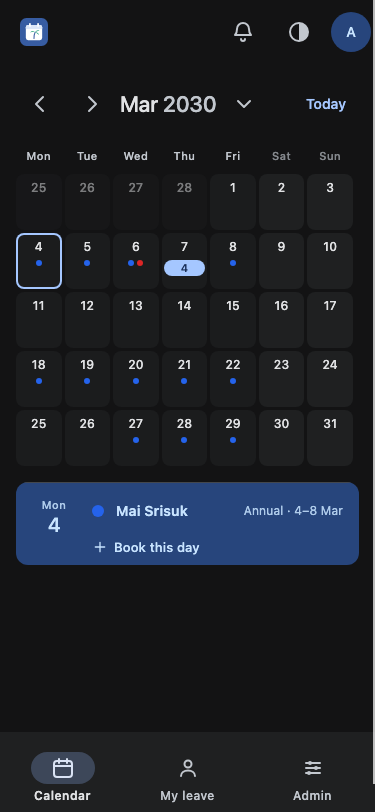
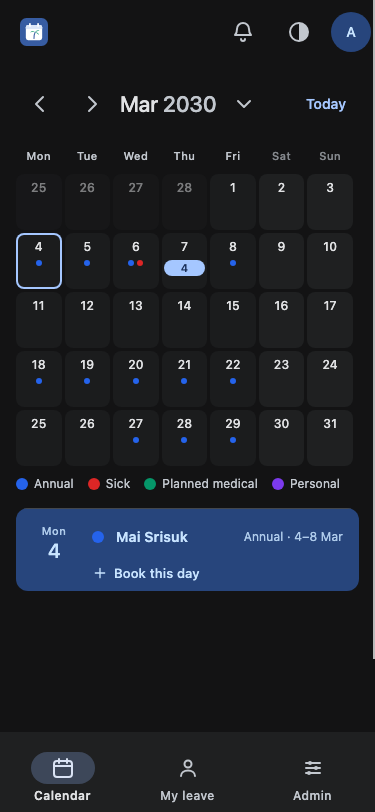
feat: booking form holds what would be refused; calendar fixes
- E1: the summary says a booking needs more than is left before
  submitting, in the error colour, and the button waits until it fits.
  A spent or overdrawn allowance is refused with "No annual leave left
  for 2026" rather than "-6.5 remaining".
- E2: "Also away" on a busy day is amber; red is for refusals.
- E3: the phone's Book button starts out of the way, instead of sitting
  on the day card until the observer first reports.
- E4: on a phone, Upcoming stays under the card on busy days, folded to
  four days with "Show all upcoming", and a one-line colour key sits
  under the grid.
- E5: Upcoming hides its Today group while the card shows today.
- E7: narrower weekend columns on a laptop (10% vs 16%), the bars' grid
  given the same proportions; weekend columns found from the week start,
  so the header's shading works in Thai too.

Linux month screenshots removed so CI records new ones; they are
committed from its artifact next.

Changed region(s): [[0.0293, 0.585, 0.968, 0.7389], [0.9973, 0.8005, 1.0, 0.9852]]

diff --git a/public/app.css b/public/app.css
@@ -40,6 +40,8 @@
 	--md-on-error: #ffffff;
 	--md-error-container: #ffcec5;
 	--md-on-error-container: #350b09;
+	--app-caution-container: #ffdea8;
+	--app-on-caution-container: #271900;
 	--md-surface: #f8f9fb;
 	--md-on-surface: #1b1c1d;
 	--md-surface-variant: #dfe3e9;
@@ -108,6 +110,8 @@
 		--md-on-error: #551915;
 		--md-error-container: #782723;
 		--md-on-error-container: #ffcec5;
+		--app-caution-container: #5b4300;
+		--app-on-caution-container: #ffdea8;
 		--md-surface: #131314;
 		--md-on-surface: #e1e2e4;
 		--md-surface-variant: #43474d;
@@ -148,6 +152,8 @@
 	--md-on-error: #551915;
 	--md-error-container: #782723;
 	--md-on-error-container: #ffcec5;
+	--app-caution-container: #5b4300;
+	--app-on-caution-container: #ffdea8;
 	--md-surface: #131314;
 	--md-on-surface: #e1e2e4;
 	--md-surface-variant: #43474d;
@@ -1204,11 +1210,10 @@ form.inline:has(.tf-support) { margin-bottom: 28px; }
 
 /* ---------- legend ---------- */
 
-/* Hidden on phones: the agenda names each leave type in words on the row
-   itself, so the colour key has nothing left to explain and was costing two
-   rows of a small screen. The month grid, which shows colour and no type name,
-   is desktop-only — and that is where the legend earns its place. */
-.legend { display: none; flex-wrap: wrap; gap: 8px; margin: var(--pad) 0; }
+/* Chips on a laptop, beside the bars. On a phone a single line of dots and
+   names under the grid, in the reader's language only: the grid's dots carry
+   colour and nothing else, and the key is what says which is which. */
+.legend { display: flex; flex-wrap: wrap; gap: 8px; margin: var(--pad) 0; }
 /* M3 assist chip. */
 .legend-item {
 	display: inline-flex;
@@ -1347,8 +1352,8 @@ form.inline:has(.tf-support) { margin-bottom: 28px; }
 .coverage.busy {
 	padding: 8px 12px;
 	border-radius: var(--md-shape-sm);
-	background: var(--md-error-container);
-	color: var(--md-on-error-container);
+	background: var(--app-caution-container);
+	color: var(--app-on-caution-container);
 	font-weight: 500;
 }
 
@@ -1575,13 +1580,17 @@ form.inline:has(.tf-support) { margin-bottom: 28px; }
 	.brand-name { display: inline; }
 	.account-name { display: inline; margin-right: 4px; color: var(--md-on-surface-variant); }
 	.fab { display: none; }
-	.legend { display: flex; }
 
 	/* Bars replace the per-day chips. A week shows three rows of them and each
 	   day counts the rest; CELL_CHIPS in calendar.tsx decides how many rows, and
 	   the server never renders more, so nothing here has to hide extras. */
 	.cell .chips { display: none; }
 	.lane-space { display: block; height: calc(var(--lanes, 0) * 26px); }
+	/* Weekdays 16% each, the weekend 10%. The bars' grid sits in the week's
+	   first cell and is sized from it: the whole row is 100/16 of a weekday
+	   column, or 100/10 of a weekend one when the week opens on Sunday. */
+	.grid col { width: 16%; }
+	.grid col.col-weekend { width: 10%; }
 	.week-bars {
 		display: grid;
 		position: absolute;
@@ -1589,14 +1598,18 @@ form.inline:has(.tf-support) { margin-bottom: 28px; }
 		left: 0;
 		top: 36px;
 		bottom: 0;
-		width: calc(700% + 6 * 6px);
-		grid-template-columns: repeat(7, minmax(0, 1fr));
+		width: calc(625% + 6 * 6px);
+		grid-template-columns: repeat(5, minmax(0, 16fr)) repeat(2, minmax(0, 10fr));
 		grid-auto-rows: 22px;
 		column-gap: 6px;
 		row-gap: 4px;
 		align-content: start;
 		pointer-events: none;
 		overflow: hidden;
+	}
+	.grid.weekend-first .week-bars {
+		width: calc(1000% + 6 * 6px);
+		grid-template-columns: minmax(0, 10fr) repeat(5, minmax(0, 16fr)) minmax(0, 10fr);
 	}
 	.week-bars > * { pointer-events: auto; margin: 0 6px; min-width: 0; }
 	.bar { display: flex; align-items: center; gap: 6px; padding: 2px 8px 2px 4px; }
@@ -2110,10 +2123,19 @@ a.my-link:focus-visible { outline: 2px solid var(--md-primary); outline-offset: 
 .agenda-view.day-mode .agenda-row.selected.has-people .agenda-type { color: inherit; opacity: 0.85; }
 .agenda-view.day-mode .agenda-row.selected.has-people .agenda-book { color: inherit; }
 
-/* On a phone the card is the answer, and Upcoming under it would repeat the
-   same names; it shows only while the chosen day has nobody away. */
+/* With today chosen, its card already names everyone away today: Upcoming
+   starts from tomorrow rather than saying it twice. */
+.cal-side:has(.agenda-view.day-mode .agenda-row.selected.today.has-people) .upcoming-day.today { display: none; }
+.upcoming-all { margin: 8px 0 0 -12px; }
 @media (max-width: 767px) {
-	.cal-side:has(.agenda-view.day-mode .agenda-row.selected.has-people) .cal-upcoming { display: none; }
+	.legend { gap: 4px 14px; margin: 10px 0 0; }
+	.legend-item { height: auto; padding: 0; border: 0; gap: 6px; font-size: 12px; line-height: 16px; font-weight: 400; color: var(--md-on-surface-variant); }
+	.legend-item .muted { display: none; }
+	/* Folded by calendar.ts to the first few days; the button opens the rest. */
+	.cal-upcoming.folded .upcoming-day:nth-child(n+5) { display: none; }
+}
+@media (min-width: 768px) {
+	.upcoming-all { display: none; }
 }
 @media (min-width: 1024px) and (min-height: 700px) {
 	body.fit-viewport .cal-side .agenda-view { margin-top: 0; }
@@ -2204,6 +2226,8 @@ a.my-link:focus-visible { outline: 2px solid var(--md-primary); outline-offset: 
 .booking-summary .preview { font-size: 14px; line-height: 20px; font-weight: 500; color: var(--md-on-surface); }
 .booking-summary .balance { font-size: 13px; line-height: 18px; color: var(--md-on-surface-variant); }
 .booking-summary .balance.bad, .booking-summary .preview.bad { color: var(--md-error); }
+/* The reason the button is held: as easy to find as the button. */
+.booking-summary .balance.bad { font-weight: 500; }
 .booking-summary .coverage { margin: 0; font-size: 13px; line-height: 18px; }
 .booking-summary .coverage.busy { margin-top: 6px; }
 .booking .actions { justify-content: flex-end; margin-top: 12px; }

diff --git a/src/i18n/strings.ts b/src/i18n/strings.ts
@@ -57,6 +57,7 @@ export const STRINGS = {
 	'cal.bookOn': { en: 'Book leave on {date}', th: 'แจ้งลาวันที่ {date}' },
 	'cal.upcoming': { en: 'Upcoming', th: 'ที่กำลังจะถึง' },
 	'cal.nothingUpcoming': { en: 'Nothing booked in the next {days} days.', th: 'ไม่มีการลาใน {days} วันข้างหน้า' },
+	'cal.upcomingAll': { en: 'Show all upcoming', th: 'แสดงทั้งหมด' },
 	'cal.upcomingWindow': { en: 'Next {days} days, from today', th: '{days} วันข้างหน้า นับจากวันนี้' },
 	'cal.more': { en: '+{n} more', th: 'อีก {n}' },
 	'cal.until': { en: 'until {date}', th: 'ถึง {date}' },
@@ -93,7 +94,7 @@ export const STRINGS = {
 	'book.from': { en: 'From', th: 'ตั้งแต่' },
 	'book.to': { en: 'To', th: 'ถึง' },
 	'book.balanceShort': { en: '{type}: only {remaining} left — not enough for this', th: '{type}: เหลือเพียง {remaining} วัน ไม่พอสำหรับการลานี้' },
-	'book.balanceNone': { en: '{type}: none left', th: '{type}: ไม่เหลือสิทธิ์แล้ว' },
+	'book.balanceNone': { en: '{type}: none left — not enough for this', th: '{type}: ไม่เหลือสิทธิ์แล้ว ไม่พอสำหรับการลานี้' },
 	'book.balance': { en: '{type}: {remaining} left → {after} after this', th: '{type}: เหลือ {remaining} วัน → หลังลานี้ {after} วัน' },
 	'book.bookDays': { en: 'Book {days} day|Book {days} days', th: 'ลา {days} วัน' },
 	'book.cancel': { en: 'Cancel', th: 'ยกเลิก' },
@@ -508,6 +509,7 @@ export const STRINGS = {
 	'error.tooFarBack': { en: 'That start date is more than {days} days in the past. Ask an admin to add it.', th: 'วันที่เริ่มต้นย้อนหลังเกิน {days} วัน กรุณาแจ้งผู้ดูแลระบบ' },
 	'error.tooFarAhead': { en: 'That end date is too far in the future — check the year.', th: 'วันที่สิ้นสุดอยู่ไกลเกินไป กรุณาตรวจสอบปี' },
 	'error.overlap': { en: 'You already have leave booked over {start} – {end}.', th: 'คุณมีการลาอยู่แล้วในช่วง {start} – {end}' },
+	'error.noneLeft': { en: 'No {type} leave left for {year}.', th: 'ไม่เหลือโควตา{typeTh}สำหรับปี {year} แล้ว' },
 	'error.notEnough': { en: 'Not enough {type} leave left: {days} day requested, {left} remaining.|Not enough {type} leave left: {days} days requested, {left} remaining.', th: 'โควตา{typeTh}ไม่พอ: ขอ {days} วัน เหลือ {left} วัน' },
 } satisfies Record<string, Entry>;
 

diff --git a/src/views/calendar.tsx b/src/views/calendar.tsx
@@ -137,7 +137,7 @@ function UpcomingList({
 			: describeRange(e.start_date, e.end_date, e.start_half, e.end_half, lang);
 
 	return (
-		<section class="cal-upcoming">
+		<section class="cal-upcoming" data-upcoming>
 			<h2>{t('cal.upcoming')}</h2>
 			{days.length === 0 ? (
 				// The empty message already names the window, so the caption below
@@ -179,6 +179,10 @@ function UpcomingList({
 							</li>
 						))}
 					</ol>
+					{/* Phone only, and only once the script has folded the list. */}
+					<button type="button" class="btn text upcoming-all" data-upcoming-all hidden>
+						{t('cal.upcomingAll')}
+					</button>
 				</>
 			)}
 		</section>
@@ -450,6 +454,7 @@ function CalendarBody(props: CalendarProps) {
 	const weekStart = parseWeekStart(user.week_start) ?? MONDAY;
 	const grid = monthGrid(year, month, weekStart);
 	const weekdays = weekdayLabels(weekStart, lang);
+	const weekendCol = weekdays.map((_, i) => (weekStart + i) % 7 === 0 || (weekStart + i) % 7 === 6);
 	const weeks = intoWeeks(grid);
 	const holidayMap = new Map(holidays.map((h) => [h.date, h.label]));
 	// Who is away on each day — weekends and holidays inside a booking left
@@ -591,12 +596,21 @@ function CalendarBody(props: CalendarProps) {
 			<div class="cal-layout">
 				<div class="cal-main">
 				<section class="grid-view">
-					<table class="grid">
+					{/* On a laptop the weekend gets narrower columns: it rarely holds
+					    anyone, and the width is worth more to the weekdays' names. The
+					    bars are laid out on a grid of their own over the cells, so it
+					    is told the same proportions (see .week-bars). */}
+					<table class={`grid ${weekendCol[0] ? 'weekend-first' : ''}`}>
 						<caption class="visually-hidden">{t('cal.title', { month: monthName(month, lang), year })}</caption>
+						<colgroup>
+							{weekendCol.map((weekend) => (
+								<col class={weekend ? 'col-weekend' : ''} />
+							))}
+						</colgroup>
 						<thead>
 							<tr>
-								{weekdays.map((w) => (
-									<th scope="col" class={`weekhead-cell ${w === 'Sat' || w === 'Sun' ? 'weekend' : ''}`}>
+								{weekdays.map((w, i) => (
+									<th scope="col" class={`weekhead-cell ${weekendCol[i] ? 'weekend' : ''}`}>
 										{w}
 									</th>
 								))}

diff --git a/src/client/booking.ts b/src/client/booking.ts
@@ -56,7 +56,7 @@ function enhance(form: HTMLFormElement) {
 		bookDays: 'Book {days} day|Book {days} days',
 		balance: '{type}: {remaining} left → {after} after this',
 		balanceShort: '{type}: only {remaining} left — not enough for this',
-		balanceNone: '{type}: none left',
+		balanceNone: '{type}: none left — not enough for this',
 		coverage: 'Also away on {date}: {names} — with you, {out} of {headcount}',
 		coverageFor: 'Also away on {date}: {names} — with {who}, {out} of {headcount}',
 		coverageMore: '{names} and {more} more',
@@ -107,7 +107,20 @@ function enhance(form: HTMLFormElement) {
 		if (balance) balance.textContent = '';
 		paintCoverage(null);
 		if (submit) submit.textContent = submitLabel;
+		hold(false);
 		summary?.classList.remove('filled');
+	}
+
+	/**
+	 * Hold the button while the summary says the server would refuse. Only on
+	 * the preview's word: when it cannot be reached the form still submits and
+	 * the server decides, as it always does.
+	 */
+	function hold(refused: boolean) {
+		if (!submit) return;
+		submit.disabled = refused;
+		if (refused) submit.setAttribute('aria-describedby', summary?.id ?? '');
+		else submit.removeAttribute('aria-describedby');
 	}
 
 	async function request() {
@@ -157,6 +170,7 @@ function enhance(form: HTMLFormElement) {
 			}
 			paintBalance(body.balance ?? null);
 			paintCoverage(body.coverage ?? null);
+			hold(typeof body.days !== 'number' || (body.balance != null && body.balance.after < 0));
 		} catch {
 			// Offline or the request failed. The summary is a nicety; the form
 			// still submits and the server still decides.
@@ -174,7 +188,8 @@ function enhance(form: HTMLFormElement) {
 		}
 		const short = data.after < 0;
 		// Already at or past zero, "only -6.5 left" is nonsense: say none is left.
-		const template = data.remaining <= 0 ? S.balanceNone : short ? S.balanceShort : S.balance;
+		// Not when an edit gives days back and so still fits: that reads as usual.
+		const template = !short ? S.balance : data.remaining <= 0 ? S.balanceNone : S.balanceShort;
 		balance.textContent = fill(template, { type: data.type, remaining: data.remaining, after: data.after });
 		balance.classList.toggle('bad', short);
 	}

diff --git a/src/client/calendar.ts b/src/client/calendar.ts
@@ -277,7 +277,27 @@ if (agenda) {
 // corner — would otherwise sit on top of a name in it.
 const fab = document.querySelector<HTMLElement>('[data-fab]');
 if (fab && agenda && 'IntersectionObserver' in window) {
+	// Out of the way until the observer first reports, which can be a few
+	// frames after the first paint: shown until then, it sat over the card's
+	// corner and then slid away.
+	fab.classList.add('fab-away');
 	new IntersectionObserver(([entry]) => fab.classList.toggle('fab-away', entry.isIntersecting)).observe(agenda);
+}
+
+// On a phone, Upcoming sits under the day card and can run to dozens of rows:
+// it shows the first few days, and a button opens the rest. Folded here rather
+// than in the markup, so without the script every row is there.
+/** Days of Upcoming a phone shows before "Show all". */
+const UPCOMING_FOLDED = 4;
+const upcoming = document.querySelector<HTMLElement>('[data-upcoming]');
+const upcomingAll = upcoming?.querySelector<HTMLButtonElement>('[data-upcoming-all]');
+if (upcoming && upcomingAll && upcoming.querySelectorAll('.upcoming-day').length > UPCOMING_FOLDED) {
+	upcoming.classList.add('folded');
+	upcomingAll.hidden = false;
+	upcomingAll.addEventListener('click', () => {
+		upcoming.classList.remove('folded');
+		upcomingAll.hidden = true;
+	});
 }
 
 // Swipe the month grid to change month. The arrows stay; this follows their

diff --git a/src/domain/leave.ts b/src/domain/leave.ts
@@ -221,6 +221,11 @@ export function validateBooking(input: BookingInput, ctx: BookingContext): Valid
 
 	if (type.counts_quota) {
 		const left = ctx.remaining.get(type.id) ?? 0;
+		if (count.days > left && left <= 0) {
+			// Nothing left, or already overdrawn by an admin's correction: "-6.5
+			// remaining" is arithmetic, not an answer.
+			return { ok: false, error: msg('error.noneLeft', { type: type.label_en.toLowerCase(), typeTh: type.label_th, year: input.startDate.slice(0, 4) }) };
+		}
 		if (count.days > left) {
 			return {
 				ok: false,
@@ -448,6 +453,7 @@ const ERROR_FIELD: Partial<Record<StringKey, string>> = {
 	// The quota belongs to the leave type, and switching type is the usual way
 	// out of this one — more usual than shortening the booking.
 	'error.notEnough': 'leaveTypeId',
+	'error.noneLeft': 'leaveTypeId',
 	'error.badStart': 'startDate',
 	'error.tooFarBack': 'startDate',
 	'error.notAWorkingDay': 'startDate',

diff --git a/src/views/booking.tsx b/src/views/booking.tsx
@@ -237,7 +237,7 @@ export function BookingForm({ types, today, compact, entry, defaultDate, errorFi
 			{/* Filled in by booking.js before the button is pressed: what this
 			    costs, what it leaves, and who else is away. Empty, and hidden,
 			    without it. */}
-			<div class="booking-summary" data-summary aria-live="polite">
+			<div class="booking-summary" id="booking-summary" data-summary aria-live="polite">
 				<p class="preview" data-preview></p>
 				<p class="balance" data-balance></p>
 				<p class="coverage" data-coverage></p>

diff --git a/docs/ARCHITECTURE.md b/docs/ARCHITECTURE.md
@@ -172,7 +172,7 @@ Self-serve model (owner's decision): a POST creates a `confirmed` row directly. 
 | GET | `/api/v1/holidays?from=&to=` | Public holidays in a range. About nobody, so any signed-in caller or named service token. |
 | GET | `/api/v1/balances?year=&user=` | Entitlement, taken and remaining per person per type. Admins and service tokens only. |
 | GET | `/api/v1/leave?from=&to=&user=` | JSON feed, active users only. No email addresses in the response; notes filtered per viewer. `user` takes an address as *input* to narrow the feed to one person — the rows `/u/:email` renders as a page. |
-| GET | `/api/v1/leave/preview` | Server-side day count, coverage and balance for the form's summary: `balance` is what the booking leaves of its type's allowance in the year it starts — the owner's when an admin edits someone else's, with the booking's own days credited back when it is that type in that year, the rule the save applies. `for` (admins, new bookings) makes it the balance and coverage of the person being booked for. |
+| GET | `/api/v1/leave/preview` | Server-side day count, coverage and balance for the form's summary — and so what holds the form's button: a refused count, or a balance that would go below zero, disables it with the reason beside it (`aria-describedby`), until the form is one the save would take. The coverage line is amber on a busy day, never red: red is kept for refusals. The balance: `balance` is what the booking leaves of its type's allowance in the year it starts — the owner's when an admin edits someone else's, with the booking's own days credited back when it is that type in that year, the rule the save applies. `for` (admins, new bookings) makes it the balance and coverage of the person being booked for. |
 | POST | `/api/v1/leave` | Book. Server computes days, checks overlap and the start year's balance. A refusal carries the submission and the offending field back to the form. An admin may send `for` — a person key from the form's "Booking for" field — to book for someone active, checked against that person's allowance and bookings; anyone else sending another key is refused. |
 | GET | `/leave/:id/edit` | A booking's page, for its owner or an admin; the no-JS destination for an entry. The booking first — dates, owner, type, a status ("in 12 days", "on leave now", "taken"), days, note, the owner's balance in its start year, who else is away during it (`coverageInRange`, from the owner), and its history from `leave_audit` — then Edit, a `<details>` holding the booking form (open by itself after a refused save), and Remove…, a `<details>` that asks once. Back goes to the page the reader came from (`referrerPath`), unless that was this page or a form it posted to. |
 | POST | `/api/v1/leave/:id/edit` | Save an edit, and offer undo. Also the drag-to-move target, which carries `returnTo` and so gets no form prefill. |
@@ -325,14 +325,14 @@ Errors are pages inside the app for anyone signed in — the bars, the reader's 
 
 One `public/app.css`, mobile-first, single breakpoint at 768px. The month grid renders at every width: coloured chips with names above it, dots below it with the whole cell as one tap target (a 7×5 grid of names is unreadable on a phone). Beside the month on a laptop, and under it on a phone, is the day panel: one day's card — today to begin with, or the month's first busy day when browsing another month — and choosing a day swaps the card in place (`client/calendar.ts`, `.day-mode`), so the grid never scrolls away and reading the 20th no longer means scrolling past the 1st to the 19th. A day with people away is the lit card (primary container); a quiet one steps back. The card carries its own "Book this day". Each row says how long that absence runs ("Annual · 18–21 Oct"). The server renders a row for every day of the month and marks the one to open on; with scripting off the list is the month's busy days as before, empty rows hidden, and an empty cell's link books that day. A sideways swipe on the grid follows the prev/next month links, and one on the day card steps a day, carrying into the next or previous month off either end (touch screens only, one `onSwipe` helper for both; it has to be mostly horizontal, 60px or more, and under 600ms, so a tap or a drifting scroll is never taken for one). The per-day views — the phone's dots, the day card, the day list and `/api/v1/leave/by-date` — list someone only on the days they are actually off: `byDate` leaves weekends and holidays inside a booking out, so a Friday-to-Monday booking shows on Friday and Monday; the desktop bars break the same way (`weekLanes`). A phone cell with more than three people away (`PHONE_DOTS`) shows the number in a small pill instead of a wrapping cluster of dots. Above the grid on a phone, the notification invitation and an admin's holiday reminder are compact strips clamped to two lines with their buttons alongside, so with both up the day card still starts on an 812px screen — `test-browser.mjs` measures it. The phone's floating Book button is round from the start and steps aside while the day card is on screen (an `IntersectionObserver` on the card): as an extended FAB it sat on the card's rows until the page was scrolled. It keeps its accessible name. When a tap or swipe changes the day, a visually hidden polite live region (`[data-day-status]`) says the day and who is away, once; each row carries its full date in `data-label` for it. Making the whole list live instead would read every row. The booking form is a `<form>` that works without JS; JS only adds the live day-count preview and the half-day field toggling.
 
-The Upcoming list — 90 days from today, grouped by day under sticky headings, with a caption saying it is anchored to today rather than the month on screen — sits in the day panel under the card: in the sidebar once the window is at least 1024×700, stacked under the grid otherwise. On a phone it shows only while the chosen day has nobody away (`:has()` on the panel), since otherwise it repeats the card's names a second time. It replaced the phone's who-summary card ("Out today" / "Next 7 days") on 2026-10-19, which said the same thing in a worse shape. The prev/next month buttons sit ahead of the month name, so their position does not depend on how long the name is. Below 768px the heading shows the short month ("Sep 2026", "ก.ย. 2026"): the long form is sent as well and CSS picks one, since "September 2026" beside three icon buttons and Today does not fit a 375px screen. It fits down to 360px.
+The Upcoming list — 90 days from today, grouped by day under sticky headings, with a caption saying it is anchored to today rather than the month on screen — sits in the day panel under the card: in the sidebar once the window is at least 1024×700, stacked under the grid otherwise. It never repeats the card: while the card shows today, Upcoming's Today group is hidden (`:has()` on the panel), at every width. On a phone it folds to its first four days with a **Show all upcoming** button (`calendar.ts`; without the script every row shows), and a one-line key of dots and type names sits under the grid, since the grid's dots carry colour and nothing else. Until 2026-10-22 the phone hid Upcoming whenever the chosen day had anyone away, which left a phone with no "who is out next" at all on a busy day, and had no key. It replaced the phone's who-summary card ("Out today" / "Next 7 days") on 2026-10-19, which said the same thing in a worse shape. The prev/next month buttons sit ahead of the month name, so their position does not depend on how long the name is. Below 768px the heading shows the short month ("Sep 2026", "ก.ย. 2026"): the long form is sent as well and CSS picks one, since "September 2026" beside three icon buttons and Today does not fit a 375px screen. It fits down to 360px.
 
 Navigation changes shape at the same breakpoint, following M3's own guidance rather than shrinking one control:
 
 - **Phone** — an M3 navigation bar fixed to the bottom, with the active destination marked by a filled pill behind its icon, and an **extended FAB** for "Book leave" in the bottom-right, where a thumb reaches. `body` reserves room for both so the last row of a list can still scroll clear.
 - **Desktop** — the same destinations as primary tabs in the top app bar, marked by an indicator under the label, and Book leave in the month's header beside Today. The FAB is hidden; every day also has its own +.
 
-On a laptop the month fits the window: the admin's holiday reminder is a chip in the header rather than a strip above it, the "Click any day…" hint row is gone, and the legend sits under the grid — together about 120px, which is what pushed the last week of a 1,366×800 screen into an inner scroll. Rows still size to their bars rather than being equal: equal rows sized to the busiest week overflow the window, and fitting won. Holiday names get two lines in the cell instead of one cut short.
+On a laptop the month fits the window: the admin's holiday reminder is a chip in the header rather than a strip above it, the "Click any day…" hint row is gone, and the legend sits under the grid — together about 120px, which is what pushed the last week of a 1,366×800 screen into an inner scroll. Rows still size to their bars rather than being equal: equal rows sized to the busiest week overflow the window, and fitting won. Holiday names get two lines in the cell instead of one cut short. From 768px the weekend columns are narrower — 10% each against 16% for a weekday, set on `<col>` elements — because they rarely hold anyone and the width is worth more to weekday names; the bars' own grid (`.week-bars`), positioned in each week's first cell, is given the same proportions and sized from that cell (`.weekend-first` when the week opens on Sunday). Which columns are the weekend is worked out from the week start, not from the column label, which had never matched in Thai.
 
 Both are rendered on every page and chosen by CSS, so there is no JS in the navigation.
 

diff --git a/docs/PROGRESS.md b/docs/PROGRESS.md
@@ -1,6 +1,6 @@
 # wan-nee-la — Progress
 
-Updated: 2026-10-21
+Updated: 2026-10-22
 
 > This repo is **public**. Every account id, hostname, database id and Access
 > value below is a placeholder; the real ones live in `wrangler.local.jsonc`,
@@ -8,7 +8,7 @@ Updated: 2026-10-21
 
 ## Status
 
-Deployed and serving. Version `8f57b1c4-f3e5-4879-8d07-5d8d4cb23912`, deployed 2026-10-21 with `npm run ship`, D1 `<database-id>` in APAC, behind Cloudflare Access on `<hostname>`. Production checks passed: the new version serves all traffic, `/health` and `/` both 302 to Access, production D1 answers, all twelve migrations are applied, and `shield:probe` stops all 17 violating requests at the edge.
+Deployed and serving. Version `c1df9696-59d7-4635-b0d7-15b0ca76008d`, deployed 2026-10-22 with `npm run ship`, D1 `<database-id>` in APAC, behind Cloudflare Access on `<hostname>`. Production checks passed: the new version serves all traffic, `/health` and `/` both 302 to Access, production D1 answers, all twelve migrations are applied, and `shield:probe` stops all 17 violating requests at the edge.
 
 **In real use.** Twelve active users, 24 confirmed bookings, 26 holidays, four leave types, 49 rows in the audit trail (read 2026-10-20). That changes what matters here: the shared surfaces now have a real audience, so note visibility, the audit trail and the privacy rules on `/u/:email` are load-bearing rather than theoretical.
 
@@ -151,12 +151,12 @@ Two consequences worth remembering:
 
 ## Verification
 
-**1,107 automated assertions**, all green. CI runs them, and lint, on every push and pull request.
+**1,116 automated assertions**, all green. CI runs them, and lint, on every push and pull request.
 
 | Suite | Assertions | Covers |
 | --- | --- | --- |
 | `test-dates.mjs` | 114 | Bangkok boundary, half-days, weekends, holidays, month grids |
-| `test-leave.mjs` | 168 | Booking rules, balances and the per-year allowance fallback, retired types, the admin leave-type form, calendar placement, note visibility, the rejected-booking draft codec |
+| `test-leave.mjs` | 170 | Booking rules, balances and the per-year allowance fallback, retired types, the admin leave-type form, calendar placement, note visibility, the rejected-booking draft codec |
 | `test-line.mjs` | 42 | Webhook signature, group-id extraction, daily and week-ahead digest text |
 | `test-push.mjs` | 55 | RFC 8291 encryption against the spec's worked example, VAPID token and signature, the `วันนี้ … ลา` and week-ahead titles, the notice a booking's owner gets when someone else changes it, the year-end reminder, which hosts a subscription may point at |
 | `test-holidays.mjs` | 45 | Parsing a pasted holiday list, and its bounds; what an import would change; the reminder to enter next year's |
@@ -165,7 +165,7 @@ Two consequences worth remembering:
 | `test-migrate.mjs` | 29 | Migration tracking: the generated SQL on SQLite, then `migrate.mjs` itself through wrangler — applied twice, a legacy database refused and then baselined |
 | `test-i18n.mjs` | 27 | Lookup, placeholders, plurals, and the catalogue's own health |
 | `smoke.mjs` | 526 | The HTTP layer — see below |
-| `test-browser.mjs` | 56 | Five screenshots compared with per-platform references (the month on a phone, light and dark, and a laptop; the admin People page on both) — then the calendar's own script in headless Chrome: the phone's day card, tapping and swiping it, what a screen reader is told, the folding Book button, the days-off-by-month chart, the busy-day count, the card staying on screen under both banners, the month swipe, the notification invitation, the entry popup, drag-to-move, remove and undo, booking from an empty day, the Thai interface |
+| `test-browser.mjs` | 63 | Five screenshots compared with per-platform references (the month on a phone, light and dark, and a laptop; the admin People page on both) — then the calendar's own script in headless Chrome: the phone's day card, tapping and swiping it, what a screen reader is told, the folding Book button, the days-off-by-month chart, the busy-day count, the card staying on screen under both banners, the month swipe, the notification invitation, the entry popup, drag-to-move, remove and undo, booking from an empty day and the button held when the allowance cannot cover it, the narrower weekend columns with the bars still on their days, the phone's folded Upcoming and its colour key, the Thai interface |
 | `check-openapi.mjs` | — | Each of the 43 routes is either documented in `openapi.yaml` or deliberately listed as not, and the API Shield 3.0.3 copy still builds from it, and its validation fingerprint moves only when validation does |
 
 The smoke suite boots a real worker against a scratch database and exercises what pure functions cannot reach: the CSRF guard, ownership checks on edit and cancel, booking rules over real requests, the open-redirect guards on `returnTo` **and on the `Referer` header**, note visibility across two identities, the audit trail's contents, the security headers, digest decisions, the webhook signature, push subscription ownership, admin authorisation, undo and its re-validation, next-year and cross-year quota, a LINE channel switched off by its flag, adding, retiring and deleting leave types, and history pruning through the real scheduled handler, the audit trail's filter and pages, the admin's notifications column, and an unhandled error — a table renamed under the running server — answering in the app's own shapes and logged by route pattern, never by path.
@@ -184,7 +184,7 @@ It is built against its own worst failure mode — passing while testing nothing
 
 ## Open items
 
-**No known bugs.** The push keypair mismatch (#40) was repaired on 2026-09-21. 1,107 assertions are green and `npm audit` is clean. The 2026-08-25 audit and the 2026-09-13 review both found and fixed what they turned up — the second a quota overdraw when moving a booking across New Year (#36) — and each fix is covered by a test or, where a test could not reach it, recorded in [ISSUES.md](ISSUES.md).
+**No known bugs.** The push keypair mismatch (#40) was repaired on 2026-09-21. 1,116 assertions are green and `npm audit` is clean. The 2026-08-25 audit and the 2026-09-13 review both found and fixed what they turned up — the second a quota overdraw when moving a booking across New Year (#36) — and each fix is covered by a test or, where a test could not reach it, recorded in [ISSUES.md](ISSUES.md).
 
 What follows is decisions, unfinished configuration, accepted trade-offs and debt — not defects.
 
@@ -265,6 +265,8 @@ Features — iCal, team grouping, coverage scoped to a team — are in PLAN.md s
 - The daily digest runs at 09:00, Mon–Fri, and stays silent on days nobody is away. Its push title is Thai only and names people rather than counting them — a lock screen gives it one line, and the names are the message.
 
 ## Change log
+
+- **2026-10-22** — UI review fixes. The booking form says before submitting that a booking needs more than is left ("Annual: none left — not enough for this"), in the error colour, and holds the button until it fits; the save's own refusal, when the allowance is already spent or overdrawn, says "No annual leave left for 2026" instead of "-6.5 remaining". "Also away" on a busy day is amber, not the red kept for refusals. On a laptop the weekend columns are narrower (10% against 16%), so weekday names cut less. Upcoming no longer repeats the day card's people when the card shows today; on a phone it stays under the card on busy days too, folded to four days with "Show all upcoming", and a one-line colour key sits under the grid. The phone's Book button starts out of the way instead of sitting on the card until the observer catches up. The weekday header's weekend shading now works in Thai.
 
 - **2026-10-21** — Docs cross-checked against the code. Route counts brought to 43 (10 in the spec, 33 deliberately not); the spec's introduction no longer says push is undelivered or that service tokens are refused, both untrue since September. Prose only: the Shield fingerprint is unchanged, so nothing to re-upload.
 - **2026-10-21** — The Shield schema file is named for its fingerprint (`dist/wan-nee-la-openapi-<fingerprint>.json`), so a dashboard row says which schema it holds. `npm run shield:check` fingerprints a schema — files downloaded from the dashboard, every upload in the zone with `CLOUDFLARE_API_TOKEN`, or with neither, the local file to upload — and flags a file whose name claims a fingerprint its content lacks. The Shield scripts resolve paths from their own location, so they print this checkout's full paths from any directory. Schema `0925e17be7913108` uploaded for the preview's `for` parameter; the probe gained a case for it, 17 of 17 enforced.
